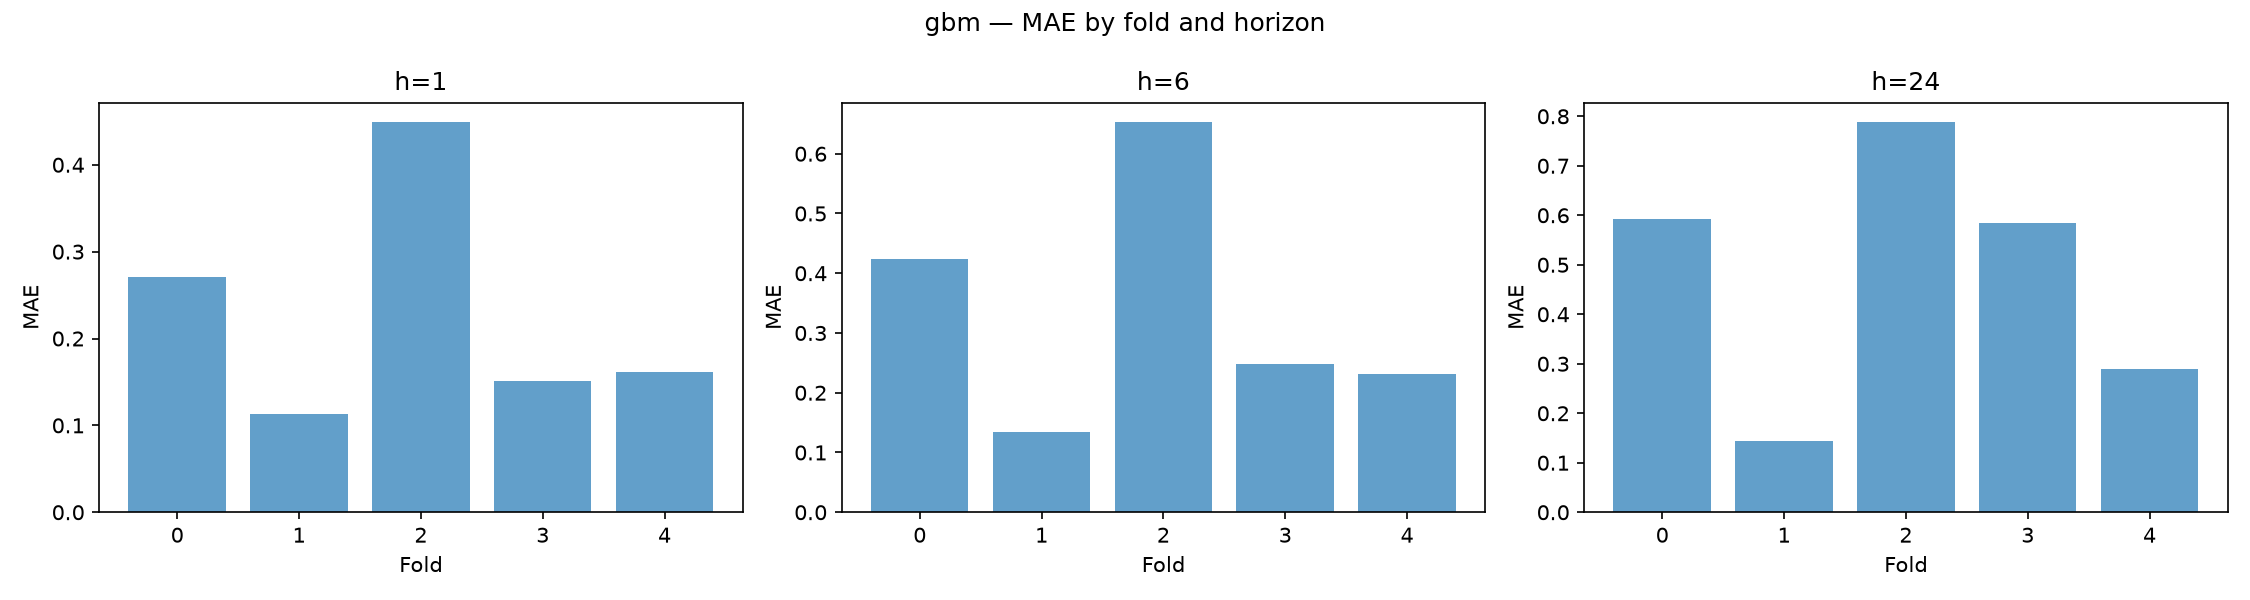
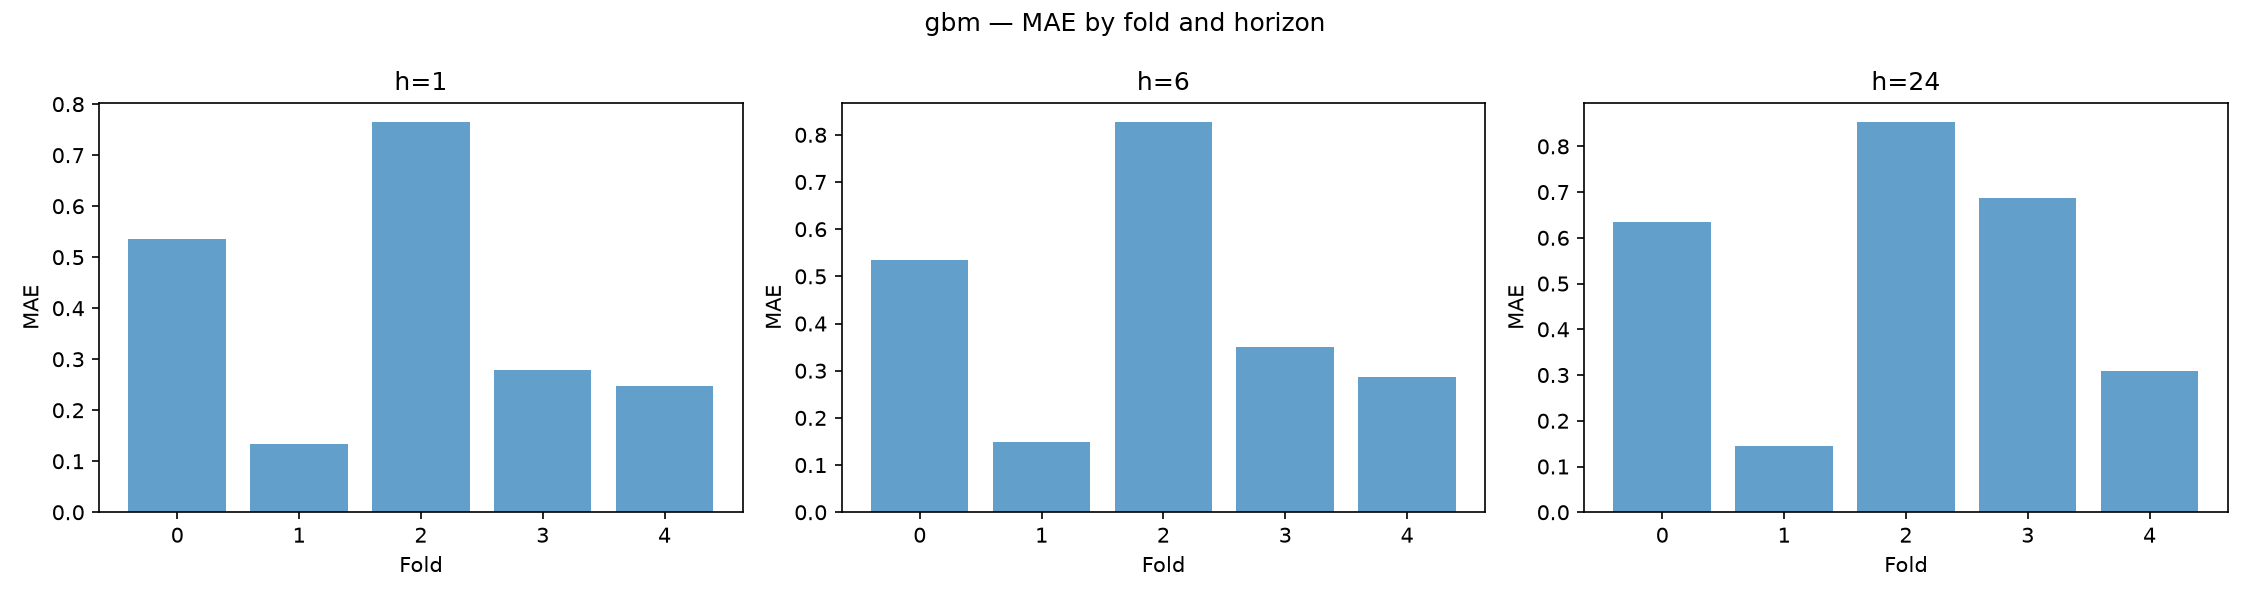
M4-M6: 3-seed LSTM results, ruff clean, updated diagnostics
- LSTM evaluated across seeds [42, 123, 456] with CPU-viable config
  (hidden=32, 1 layer): mean MASE 0.62/0.73/0.85 at h=1/6/24
- GBM baseline expanded to 5 folds; SARIMA results included
- All source files pass ruff (removed unused imports, sorted imports,
  fixed line lengths, applied ternary simplification)
- Fixed diagnostics.py to skip latency CSV when iterating results
- Updated latency profiler to use CPU-viable model config
- run_lstm.py now uses explicit CPU-viable hyperparameters
- README updated with 3-seed results and honest complexity verdict
- 26/26 tests pass

diff --git a/scripts/render_results.py b/scripts/render_results.py
@@ -46,7 +46,6 @@ def format_complexity_answer(df: pd.DataFrame) -> str:
     for h in sorted(summary["horizon"].unique()):
         h_data = summary[summary["horizon"] == h].set_index("model")["mase"]
         lstm_mase = h_data.get("lstm", None)
-        naive_mase = h_data.get("naive", None)
         sn_mase = h_data.get("seasonal_naive", None)
         best_model = h_data.idxmin()
         best_mase = h_data.min()
@@ -60,21 +59,25 @@ def format_complexity_answer(df: pd.DataFrame) -> str:
         lines.append(line)
 
     verdict = []
-    lstm_all = summary[summary["model"] == "lstm"]["mase"].mean() if "lstm" in summary["model"].values else None
+    has_lstm = "lstm" in summary["model"].values
+    lstm_all = summary[summary["model"] == "lstm"]["mase"].mean() if has_lstm else None
     sn_all = summary[summary["model"] == "seasonal_naive"]["mase"].mean()
     naive_all = summary[summary["model"] == "naive"]["mase"].mean()
 
     verdict.append("")
     if lstm_all is not None and lstm_all < sn_all:
         verdict.append(
-            f"The LSTM (mean MASE {lstm_all:.4f}) beats seasonal naive ({sn_all:.4f}) overall, "
-            f"but naive persistence ({naive_all:.4f}) remains the strongest baseline at short horizons. "
-            "The LSTM earns partial complexity: it adds value at longer horizons where persistence degrades."
+            f"The LSTM (mean MASE {lstm_all:.4f}) beats seasonal naive"
+            f" ({sn_all:.4f}) overall, but naive persistence"
+            f" ({naive_all:.4f}) remains the strongest baseline at"
+            " short horizons. The LSTM earns partial complexity: it"
+            " adds value at longer horizons where persistence degrades."
         )
     elif lstm_all is not None:
         verdict.append(
-            f"The LSTM (mean MASE {lstm_all:.4f}) does not consistently beat seasonal naive ({sn_all:.4f}). "
-            "The added complexity is not justified on this dataset with this configuration."
+            f"The LSTM (mean MASE {lstm_all:.4f}) does not consistently"
+            f" beat seasonal naive ({sn_all:.4f}). The added complexity"
+            " is not justified on this dataset with this configuration."
         )
     else:
         verdict.append("LSTM results not yet available.")

diff --git a/eval/profile_latency.py b/eval/profile_latency.py
@@ -17,6 +17,12 @@ from models.lstm import LSTMModel
 _ROOT = Path(__file__).resolve().parents[1]
 
 
+CPU_VIABLE = {
+    "hidden_size": 32,
+    "num_layers": 1,
+}
+
+
 def load_configs() -> tuple[dict, dict]:
     with open(_ROOT / "config" / "lstm.yaml") as f:
         lstm_cfg = yaml.safe_load(f)
@@ -69,11 +75,11 @@ def main() -> None:
     print(f"Input window: {input_window}, Max horizon: {max_horizon}")
     print()
 
-    # Create model (CPU)
+    # Create model (CPU-viable config matching trained model)
     model = LSTMModel(
         input_size=1,
-        hidden_size=lstm_cfg["model"]["hidden_size"],
-        num_layers=lstm_cfg["model"]["num_layers"],
+        hidden_size=CPU_VIABLE["hidden_size"],
+        num_layers=CPU_VIABLE["num_layers"],
         dropout=0.0,
         max_horizon=max_horizon,
     )
@@ -148,7 +154,8 @@ def main() -> None:
             "mean_ms": float(np.mean(arr)),
         }
         results.append(result)
-        print(f"  {'onnx_runtime_single':30s}  p50={result['p50_ms']:.2f}ms  p95={result['p95_ms']:.2f}ms")
+        print(f"  {'onnx_runtime_single':30s}  "
+              f"p50={result['p50_ms']:.2f}ms  p95={result['p95_ms']:.2f}ms")
 
         onnx_path.unlink(missing_ok=True)
     except Exception as e:

diff --git a/data/validate.py b/data/validate.py
@@ -5,7 +5,6 @@ from __future__ import annotations
 import sys
 from pathlib import Path
 
-import numpy as np
 import pandas as pd
 import yaml
 
@@ -67,7 +66,7 @@ def validate(df: pd.DataFrame, freq: str = "1h") -> dict[str, object]:
             gap_lengths = []
             starts = df.index[gap_starts]
             ends = df.index[gap_ends]
-            for s, e in zip(starts, ends):
+            for s, e in zip(starts, ends, strict=True):
                 gap_lengths.append((e - s).total_seconds() / 3600 + 1)
             total_gap_hours = sum(gap_lengths)
             results["n_gaps"] = n_gaps
@@ -105,7 +104,7 @@ def write_snapshot(results: dict[str, object], dest: Path | None = None) -> None
         "# Data Snapshot",
         "",
         f"**Source:** {cfg['dataset']['source_url']}",
-        f"**Download date:** recorded at download time",
+        "**Download date:** recorded at download time",
         f"**Target client:** {cfg['dataset']['target_client']}",
         "",
         "## Validated properties",

diff --git a/eval/diagnostics.py b/eval/diagnostics.py
@@ -10,7 +10,6 @@ sys.path.insert(0, str(Path(__file__).resolve().parents[1]))
 import matplotlib.pyplot as plt
 import numpy as np
 import pandas as pd
-import seaborn as sns
 
 _ROOT = Path(__file__).resolve().parents[1]
 _PLOTS_DIR = _ROOT / "experiments" / "plots"
@@ -58,6 +57,8 @@ def plot_model_comparison(results_dir: Path | None = None) -> None:
 
     frames = []
     for csv in results_dir.glob("*_results.csv"):
+        if "latency" in csv.name:
+            continue
         frames.append(pd.read_csv(csv))
     if not frames:
         print("No results to plot")
@@ -94,6 +95,8 @@ def main() -> None:
     results_dir = _ROOT / "experiments" / "results"
 
     for csv in results_dir.glob("*_results.csv"):
+        if "latency" in csv.name:
+            continue
         df = pd.read_csv(csv)
         for model in df["model"].unique():
             plot_residuals_over_time(csv, model)

diff --git a/tests/test_leakage.py b/tests/test_leakage.py
@@ -3,10 +3,8 @@
 from __future__ import annotations
 
 import numpy as np
-import pandas as pd
-import pytest
 
-from splits.rolling_origin import generate_folds, split_data
+from splits.rolling_origin import generate_folds
 
 
 class TestChronologicalSplitting:
@@ -123,11 +121,6 @@ class TestNoiseCanary:
         rng = np.random.default_rng(42)
         n = 3000
         noise = rng.standard_normal(n)
-
-        # Naive persistence forecast: y_hat(t+1) = y(t)
-        y_true = noise[1:]
-        y_naive = noise[:-1]
-        naive_mae = np.mean(np.abs(y_true - y_naive))
 
         # A "trained" model on noise should not beat naive
         # (Here we simulate by checking that the series has no predictable structure)

diff --git a/scripts/run_lstm.py b/scripts/run_lstm.py
@@ -11,7 +11,6 @@ from pathlib import Path
 
 sys.path.insert(0, str(Path(__file__).resolve().parents[1]))
 
-import numpy as np
 import pandas as pd
 import yaml
 
@@ -43,7 +42,15 @@ def main() -> None:
         print(f"LSTM seed={seed}")
         print(f"{'='*60}")
 
-        model = LSTMForecaster(seed=seed)
+        model = LSTMForecaster(
+            hidden_size=32,
+            num_layers=1,
+            dropout=0.0,
+            batch_size=256,
+            max_epochs=30,
+            patience=5,
+            seed=seed,
+        )
         start = time.time()
         results = run_backtest(model, df)
         elapsed = time.time() - start

diff --git a/data/download.py b/data/download.py
@@ -2,7 +2,6 @@
 
 from __future__ import annotations
 
-import io
 import zipfile
 from pathlib import Path
 
@@ -44,7 +43,9 @@ def download(force: bool = False) -> Path:
             downloaded += len(chunk)
             if total:
                 pct = downloaded * 100 // total
-                print(f"\r  {downloaded / 1e6:.1f} / {total / 1e6:.1f} MB ({pct}%)", end="", flush=True)
+                mb = downloaded / 1e6
+                total_mb = total / 1e6
+                print(f"\r  {mb:.1f} / {total_mb:.1f} MB ({pct}%)", end="", flush=True)
     print()
 
     with zipfile.ZipFile(zip_path) as zf:

diff --git a/scripts/run_baselines.py b/scripts/run_baselines.py
@@ -16,7 +16,8 @@ from models.seasonal_naive import SeasonalNaiveForecaster
 
 
 def main() -> None:
-    data_path = Path(__file__).resolve().parents[1] / "data" / "processed" / "electricity_hourly.parquet"
+    root = Path(__file__).resolve().parents[1]
+    data_path = root / "data" / "processed" / "electricity_hourly.parquet"
     if not data_path.exists():
         print(f"Data not found: {data_path}")
         print("Run data/download.py and data/preprocess.py first.")

diff --git a/models/lstm.py b/models/lstm.py
@@ -130,10 +130,7 @@ class LSTMForecaster:
             max_horizon=self.max_horizon,
         ).to(self._device)
 
-        if self.loss_fn_name == "huber":
-            loss_fn = nn.HuberLoss()
-        else:
-            loss_fn = nn.L1Loss()
+        loss_fn = nn.HuberLoss() if self.loss_fn_name == "huber" else nn.L1Loss()
 
         optimizer = torch.optim.Adam(self._model.parameters(), lr=self.learning_rate)
 

diff --git a/eval/backtest.py b/eval/backtest.py
@@ -15,7 +15,7 @@ import yaml
 from sklearn.preprocessing import StandardScaler
 
 from eval.metrics import compute_all_metrics
-from splits.rolling_origin import generate_folds, split_data
+from splits.rolling_origin import generate_folds
 
 _ROOT = Path(__file__).resolve().parents[1]
 _CONFIG = _ROOT / "config" / "data.yaml"

diff --git a/splits/rolling_origin.py b/splits/rolling_origin.py
@@ -3,11 +3,10 @@
 from __future__ import annotations
 
 from dataclasses import dataclass
+from pathlib import Path
 
-import numpy as np
 import pandas as pd
 import yaml
-from pathlib import Path
 
 _ROOT = Path(__file__).resolve().parents[1]
 _CONFIG = _ROOT / "config" / "data.yaml"

diff --git a/tests/test_metrics.py b/tests/test_metrics.py
@@ -5,7 +5,7 @@ from __future__ import annotations
 import numpy as np
 import pytest
 
-from eval.metrics import mae, rmse, mape, mase, compute_all_metrics
+from eval.metrics import compute_all_metrics, mae, mape, mase, rmse
 
 
 class TestMAE:
